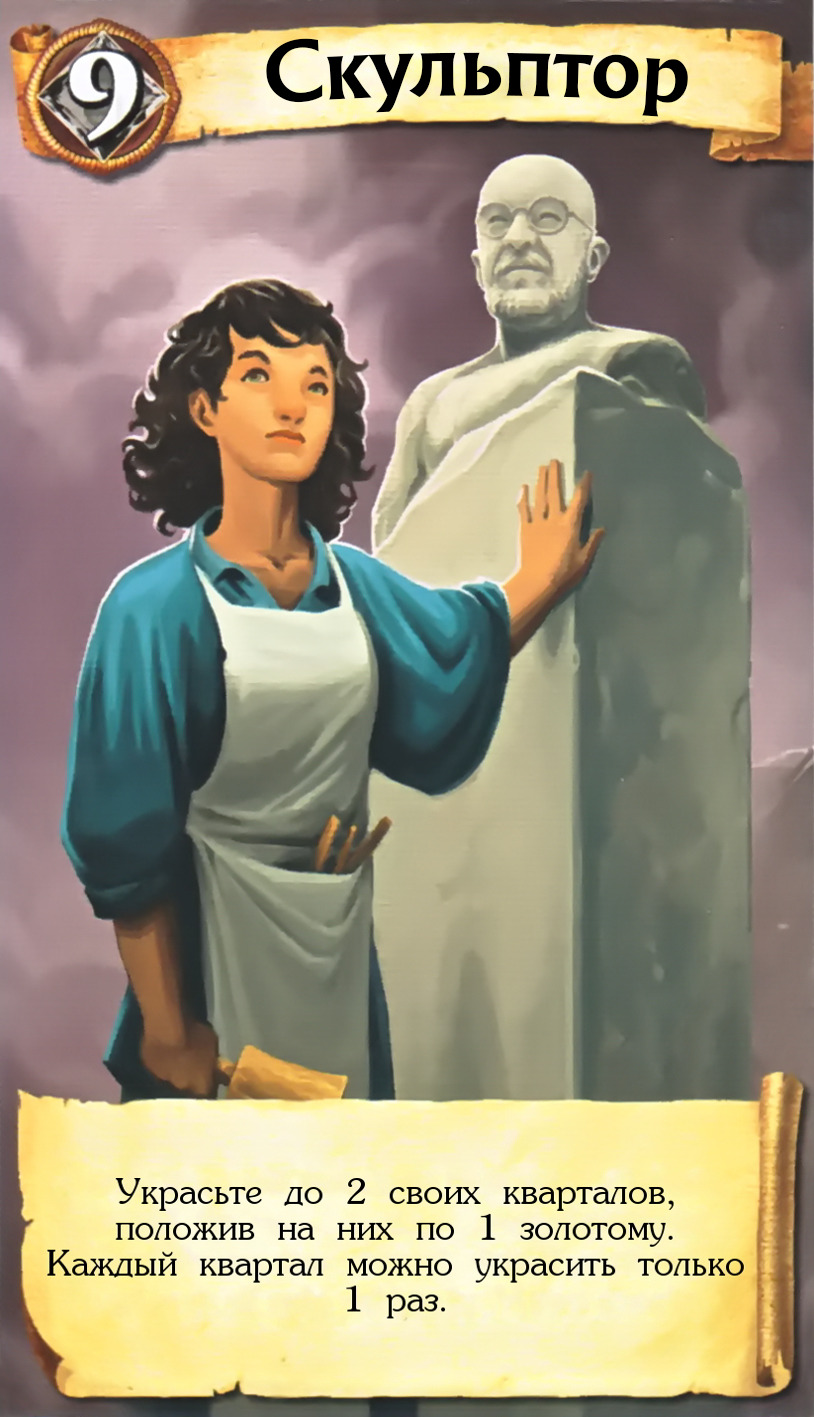
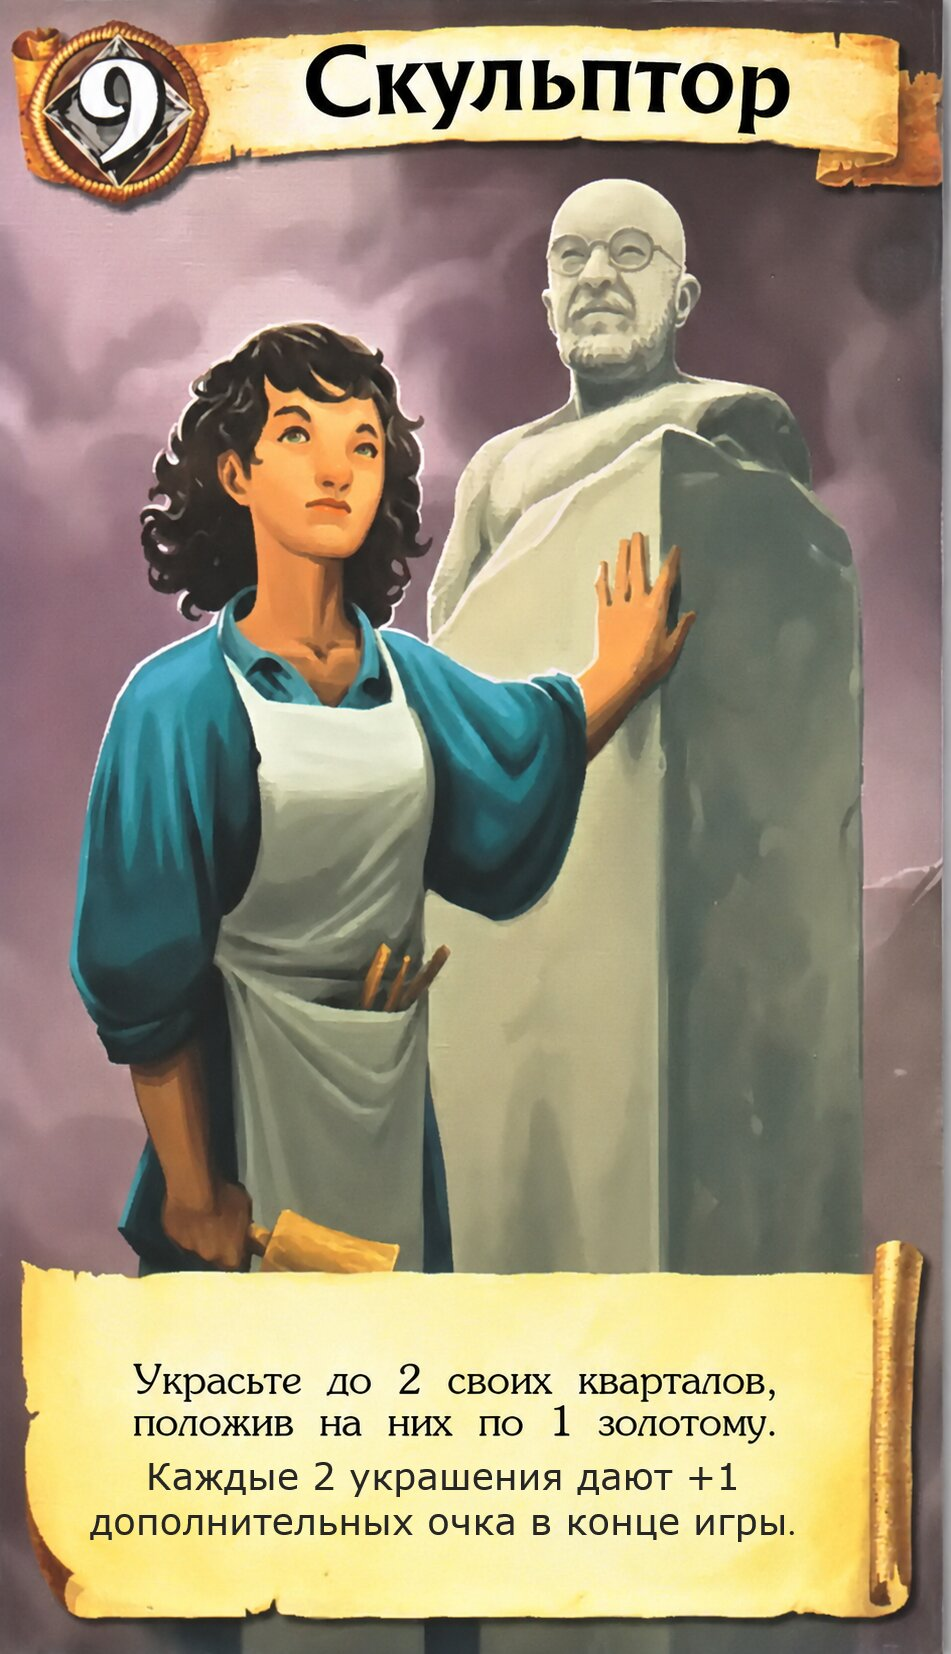
CODEX: fix timer bugs, update game's balance by cards, new Architect

diff --git a/module.js b/module.js
@@ -85,7 +85,8 @@ function init(wsServer, path) {
                 playerHand: {},
                 playerDistricts: {},
                 playerCharacter: {},
-                playerScore: {}
+                playerScore: {},
+                winnerPlayers: []
             };
             if (testMode)
                 [1, 2, 3, 4].forEach((_, ind) => {
@@ -328,7 +329,7 @@ function init(wsServer, path) {
                         return this.slotEventHandlers["theater-action"](slot, slot);
                     if (slot == null || slot !== room.currentPlayer || !state.players[slot])
                         return clearTurnTimer();
-                    finishTurn(slot, true);
+                    finishTurn(slot, true, true);
                 },
                 startGame = (districts, timerSettings) => {
                     state.playersCount = room.playerSlots.filter((user) => user !== null).length;
@@ -342,6 +343,7 @@ function init(wsServer, path) {
                         room.playerDistricts = {};
                         room.playerCharacter = {};
                         room.playerScore = {};
+                        room.winnerPlayers = [];
                         room.teamsLocked = true;
                         state.districtDeck = utils.createDeck(state.playersCount, districts);
                         if (room.winnerPlayer != null)
@@ -369,6 +371,7 @@ function init(wsServer, path) {
                         room.king = getRandomPlayer();
                         room.ender = null;
                         room.winnerPlayer = null;
+                        room.winnerPlayers = [];
                         room.tax = 0;
                         state.maxDistricts = state.playersCount < 4 ? 8 : 7;
                         state.wizardPlayer = null
@@ -409,6 +412,7 @@ function init(wsServer, path) {
                     state.trueBlackmailed = null;
                     room.witchedstate = 0;
                     state.emperorAction = false;
+                    delete state.forceEndAfterBlackmail;
                     room.currentPlayer = room.king;
                     state.players[room.currentPlayer].action = 'choose';
                     state.players[room.currentPlayer].choose = state.characterDeck;
@@ -700,19 +704,26 @@ function init(wsServer, path) {
                         state.players[slot].character = [];
                         room.playerCharacter[slot] = [];
                     });
-                    let maxPoints = 0;
-                    for (let i = 0; i < room.characterInGame.length; i++) {
-                        const role = room.characterInGame[i];
-                        if (state.characterRoles[role] !== null)
-                            if (room.playerScore[state.characterRoles[role]] >= maxPoints) {
-                                maxPoints = room.playerScore[state.characterRoles[role]];
-                                room.winnerPlayer = state.characterRoles[role];
-                                if (finished) {
-                                    const userData = {user: room.playerSlots[room.winnerPlayer], room};
-                                    registry.authUsers.processAchievement(userData, registry.achievements.win100Citadels.id);
-                                    registry.authUsers.processAchievement(userData, registry.achievements.winGames.id, {game: registry.games.citadels.id});
-                                }
-                            }
+                    const getPrintedDistrictCost = (slot) => room.playerDistricts[slot].map(card => card.cost).reduce((a, b) => a + b, 0);
+                    let winners = Object.keys(state.players).map(Number);
+                    [
+                        (slot) => room.playerScore[slot],
+                        getPrintedDistrictCost,
+                        (slot) => room.playerGold[slot]
+                    ].forEach(scoreFn => {
+                        if (winners.length < 2)
+                            return;
+                        const maxScore = Math.max(...winners.map(scoreFn));
+                        winners = winners.filter(slot => scoreFn(slot) === maxScore);
+                    });
+                    room.winnerPlayers = winners;
+                    room.winnerPlayer = winners[0];
+                    if (finished) {
+                        winners.forEach(slot => {
+                            const userData = {user: room.playerSlots[slot], room};
+                            registry.authUsers.processAchievement(userData, registry.achievements.win100Citadels.id);
+                            registry.authUsers.processAchievement(userData, registry.achievements.winGames.id, {game: registry.games.citadels.id});
+                        });
                     }
                     room.phase = 0;
 
@@ -767,6 +778,9 @@ function init(wsServer, path) {
                     room.seerReturnSlot = null;
                     room.seerReturnPlayers = null;
                 },
+                isForceEndAfterBlackmail = (slot) => state.forceEndAfterBlackmail
+                    && state.forceEndAfterBlackmail.slot === slot
+                    && state.forceEndAfterBlackmail.character === room.currentCharacter,
                 prepareForcedFinishTurn = (slot) => {
                     finishPhase3Turn(slot);
                     const responderSlot = room.currentPlayer;
@@ -808,10 +822,22 @@ function init(wsServer, path) {
                     const targetSlot = candidates[Math.floor(Math.random() * candidates.length)];
                     this.slotEventHandlers["emperor-crown"](slot, targetSlot, "coin");
                 },
-                finishTurn = (slot, forced) => {
+                finishTurn = (slot, forced, fromTimer) => {
                     if (forced) {
-                        if (![2, 3].includes(room.phase) || !room.timer || slot !== room.timer.ownerSlot || !state.players[slot])
+                        if (![2, 3].includes(room.phase) || !state.players[slot] || (!fromTimer && (!room.timer || slot !== room.timer.ownerSlot)))
                             return;
+                        if (room.phase === 3)
+                            finishPhase3Turn(slot);
+                        if (room.phase !== 2 || !state.players[slot])
+                            return;
+                        room.currentPlayer = slot;
+                        if (room.blackmailed.includes(room.currentCharacter) && !['blackmailed-response', 'blackmailed-open'].includes(state.players[slot].action)) {
+                            state.forceEndAfterBlackmail = {slot, character: room.currentCharacter};
+                            moveToResponse(true);
+                            if (state.players[slot] && state.players[slot].action === 'blackmailed-response')
+                                this.slotEventHandlers["blackmailed-response"](slot, "no");
+                            return;
+                        }
                         if (['emperor-action', 'emperor-nores-action'].includes(state.players[slot].action)) {
                             autoEmperorCrown(slot);
                             if (room.phase !== 2 || !state.players[slot])
@@ -848,6 +874,8 @@ function init(wsServer, path) {
                 },
                 countPoints = (slot) => {
                     room.playerScore[slot] = room.playerDistricts[slot].map(card => getDistrictCost(card)).reduce((a, b) => a + b, 0);
+                    const decorationsCount = room.playerDistricts[slot].map(card => getDecorationCount(card)).reduce((a, b) => a + b, 0);
+                    room.playerScore[slot] += Math.floor(decorationsCount / 2);
                     if (room.ender == slot) room.playerScore[slot] += 2;
                     if (getDistrictsCount(slot) >= state.maxDistricts) room.playerScore[slot] += 2;
 
@@ -885,7 +913,8 @@ function init(wsServer, path) {
                     return districtsCount;
                 },
                 include = (slot, card) => room.playerDistricts[slot].some(building => building.type === card),
-                getDistrictCost = (card) => card.cost + (card.decoration ? 1 : 0),
+                getDecorationCount = (card) => card.decoration === true ? 1 : (card.decoration || 0),
+                getDistrictCost = (card) => card.cost + getDecorationCount(card),
                 getBuildCost = (slot, card) => card.cost - ((include(slot, "factory") && card.kind === 9) ? 1 : 0),
                 isCharactersValid = (characters) => {
                     if (!([8, 9].includes(characters.length) && characters.every((character, index) => {
@@ -1279,6 +1308,7 @@ function init(wsServer, path) {
                     if (room.phase === 2 && state.players[slot].action === 'blackmailed-open' && ~['yes', 'no'].indexOf(ans)) {
                         state.players[slot].action = null;
                         const blackmailedSlot = state.characterRoles[room.currentCharacter];
+                        const forceEnd = isForceEndAfterBlackmail(blackmailedSlot);
                         if (ans === 'yes') {
                             room.blackmailed.splice(room.blackmailed.indexOf(room.currentCharacter), 1);
                             if (state.trueBlackmailed === room.currentCharacter) {
@@ -1298,7 +1328,12 @@ function init(wsServer, path) {
                         sendStateSlot(room.currentPlayer);
                         room.currentPlayer = blackmailedSlot;
                         startTurn();
-                        restorePausedMainTimer(blackmailedSlot);
+                        if (forceEnd) {
+                            delete state.forceEndAfterBlackmail;
+                            finishTurn(blackmailedSlot, true, true);
+                        } else {
+                            restorePausedMainTimer(blackmailedSlot);
+                        }
                         update();
                     }
                 },
@@ -1731,8 +1766,9 @@ function init(wsServer, path) {
                 },
                 "beautify": (slot, slot_d, cardInd) => {
                     if (room.phase === 2 && state.players[slot].action === 'artist-action' && state.players[slot].artistAction
-                        && slot === slot_d && room.playerDistricts[slot][cardInd] && !room.playerDistricts[slot][cardInd].decoration && room.playerGold[slot]) {
-                        room.playerDistricts[slot][cardInd].decoration = true;
+                        && slot === slot_d && room.playerDistricts[slot][cardInd] && room.playerGold[slot]) {
+                        const building = room.playerDistricts[slot][cardInd];
+                        building.decoration = getDecorationCount(building) + 1;
                         state.players[slot].artistAction -= 1;
                         room.playerGold[slot] -= 1;
                         countPoints(slot);

diff --git a/public/app.jsx b/public/app.jsx
@@ -104,7 +104,8 @@ class Card extends React.Component {
             diplomatCard = data.player && data.player.action === 'diplomat-action' && this.props.play && !isCharacter
                 && data.cardChosen[0] === this.props.slot && data.cardChosen[1] === this.props.id,
             currentCharacter = data.currentCharacter === card && isToken,
-            isSecretVault = card.type === "secret_vault";
+            isSecretVault = card.type === "secret_vault",
+            decorationCount = card.decoration === true ? 1 : (card.decoration || 0);
         return (
             <div className={cs(type, "card-item", {
                 "card-chosen": cardChosen || blackmailedChosen || diplomatCard,
@@ -112,7 +113,7 @@ class Card extends React.Component {
                 "card-wizard": card.wizard,
                 "current-character": currentCharacter,
                 "secret-vault": isSecretVault,
-                "decoration": card.decoration,
+                "decoration": decorationCount,
                 "in-action": !isCharacter && (data.userAction === card.type || (data.buildTarget === this.props.id && this.props.inHand)),
                 "witched-state": !isGallery && !isToken && data.witchedstate === 1 && originalCard === data.witched
             })}
@@ -125,7 +126,9 @@ class Card extends React.Component {
                                         onTouchStart={(e) => game.handleCardZoomClick(e)}>search</div>) : ""}
                 {card !== "0_1" ? (<div className={`card-item-zoomed`}
                                         style={{"background-image": backgroundImageZoomed}}/>) : ""}
-                {card.decoration ? <div className="decoration-coin" style={{top: `${20 * card.cost}px`}}/> : ""}
+                {decorationCount ? <div className="decoration-coin" style={{top: `${20 * card.cost}px`}}>
+                    {decorationCount > 1 ? <span className="decoration-count">{decorationCount}</span> : ""}
+                </div> : ""}
                 {card === "9_3" && isToken ? <div className={cs("tax-counter", {empty: !data.tax})}>
                     <div className="tax-counter-coin"/>
                     <div className="tax-counter-value">{data.tax || 0}</div>
@@ -194,7 +197,8 @@ class PlayerSlot extends React.Component {
             playerChosen = data.playerChosen === slot,
             score = data.playerScore[slot],
             isMyTurn = slot === data.currentPlayer,
-            isWinner = slot === data.winnerPlayer;
+            winnerPlayers = data.winnerPlayers || [],
+            isWinner = slot === data.winnerPlayer || winnerPlayers.includes(slot);
         return (
             <div className={cs(`player-slot`, `player-slot-${slot}`, {
                 "my-turn": isMyTurn,

diff --git a/public/style.css b/public/style.css
@@ -109,6 +109,7 @@ h1, h2, h3 {
 .profile-head {
     display: flex;
     position: relative;
+    min-width: 0;
 }
 
 .profile-name {
@@ -117,8 +118,26 @@ h1, h2, h3 {
     width: 100%;
     flex-wrap: nowrap;
     padding-top: 2px;
-    padding-right: 56px;
+    padding-left: 4px;
+    padding-right: 4px;
     box-sizing: border-box;
+    white-space: nowrap;
+    overflow: hidden;
+    text-align: center;
+    text-overflow: ellipsis;
+}
+
+.profile-name .player {
+    display: block;
+    min-width: 0;
+    overflow: hidden;
+    width: 100%;
+}
+
+.profile-name .player-name-text {
+    display: block;
+    overflow: hidden;
+    text-overflow: ellipsis;
     white-space: nowrap;
 }
 
@@ -922,6 +941,16 @@ button {
     box-shadow: 0px -1px 2px 1px #0000005c;
     border-radius: 19px;
     filter: grayscale(0.1);
+}
+
+.decoration-count {
+    color: white;
+    display: block;
+    font-size: 14px;
+    font-weight: bold;
+    line-height: 23px;
+    text-align: center;
+    text-shadow: 0 1px 2px black;
 }
 
 .create-game-panel {
